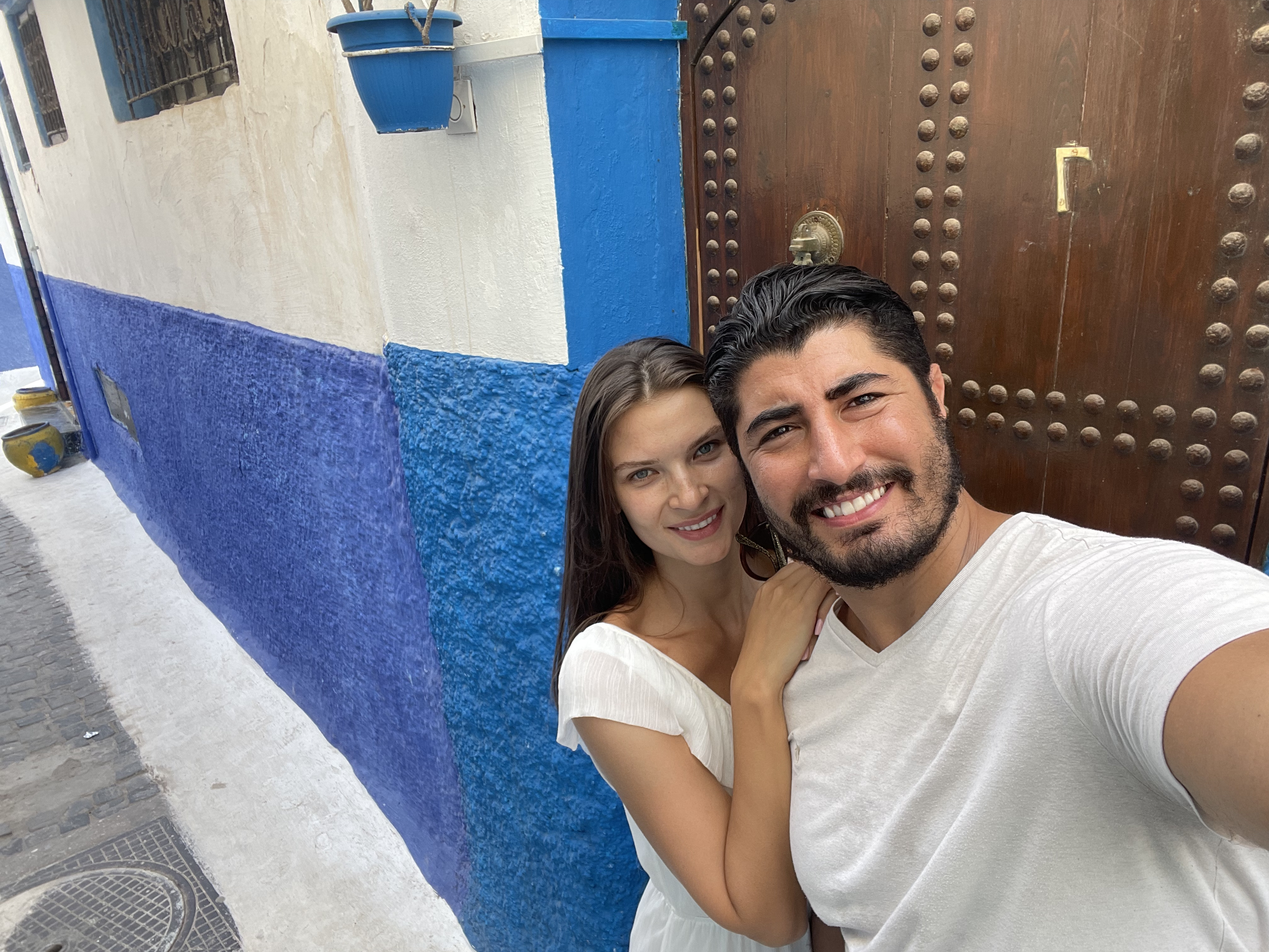
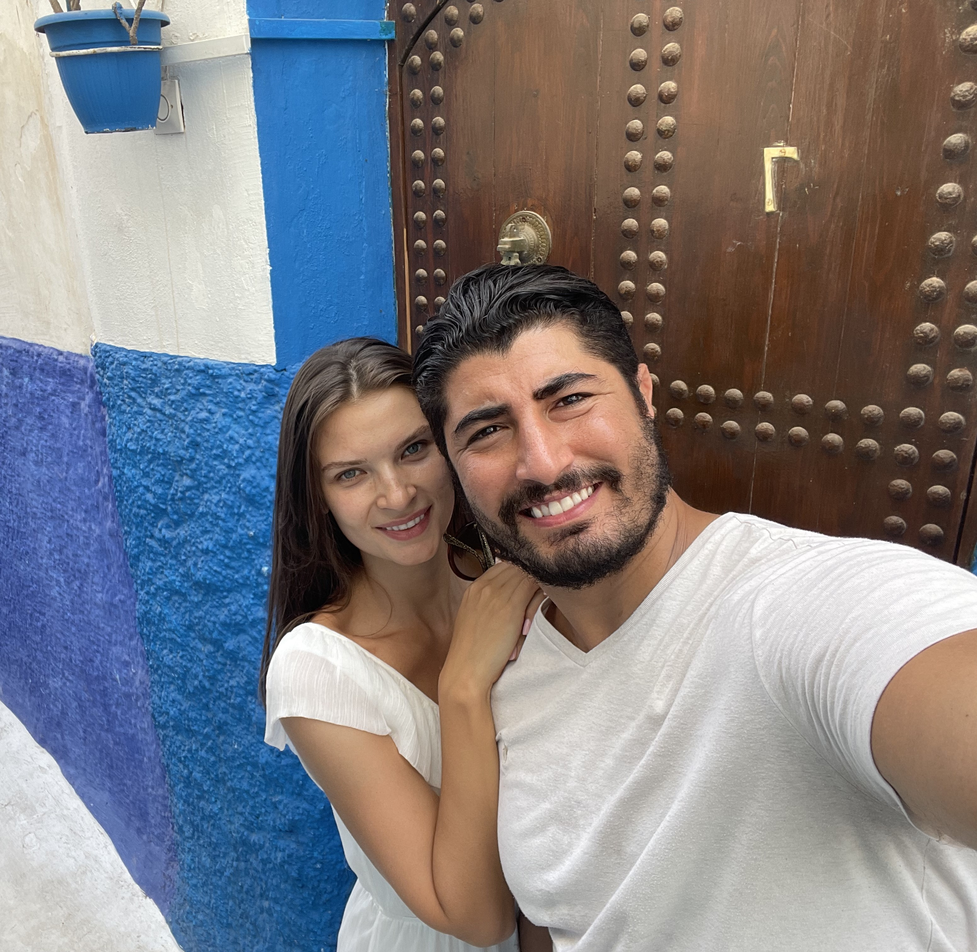
hero-img fixes

diff --git a/index.html b/index.html
@@ -87,12 +87,12 @@
             <img
               class="position-absolute w-100 h-100"
               src="img/carousel-1.jpg"
-              style="object-fit: cover"
+              style="object-fit: cover; margin-top: auto"
             />
             <div
               class="carousel-caption d-flex flex-column align-items-center justify-content-center"
             >
-              <div class="p-3" style="max-width: 900px">
+              <div class="p-4" style="max-width: 900px; margin-top: auto">
                 <h1 class="display-1 font-secondary text-white mt-n3 mb-md-4">
                   Abdel & Olga
                 </h1>
@@ -121,7 +121,7 @@
             <div
               class="carousel-caption d-flex flex-column align-items-center justify-content-center"
             >
-              <div class="p-3" style="max-width: 900px">
+              <div class="p-4" style="max-width: 900px; margin-top: auto">
                 <h1 class="display-1 font-secondary text-white mt-n3 mb-md-4">
                   Abdel & Olga
                 </h1>
@@ -652,9 +652,6 @@
       </div>
     </div>
     <!-- Footer End -->
-
-    <!-- Scroll to Bottom -->
-    <i class="fa fa-2x fa-angle-down text-white scroll-to-bottom"></i>
 
     <!-- Back to Top -->
     <a href="#" class="btn btn-lg btn-outline-primary btn-lg-square back-to-top"
